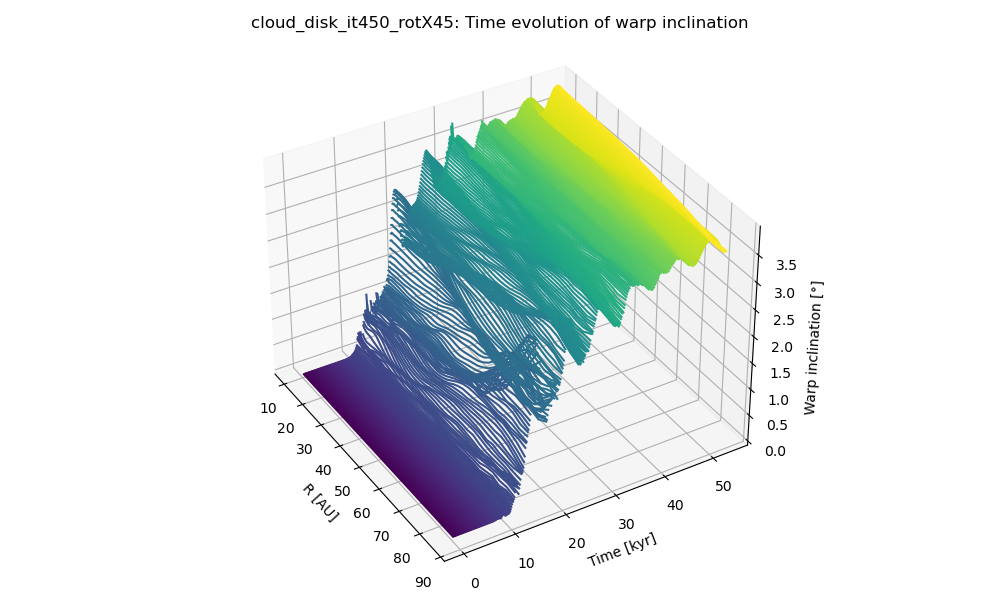
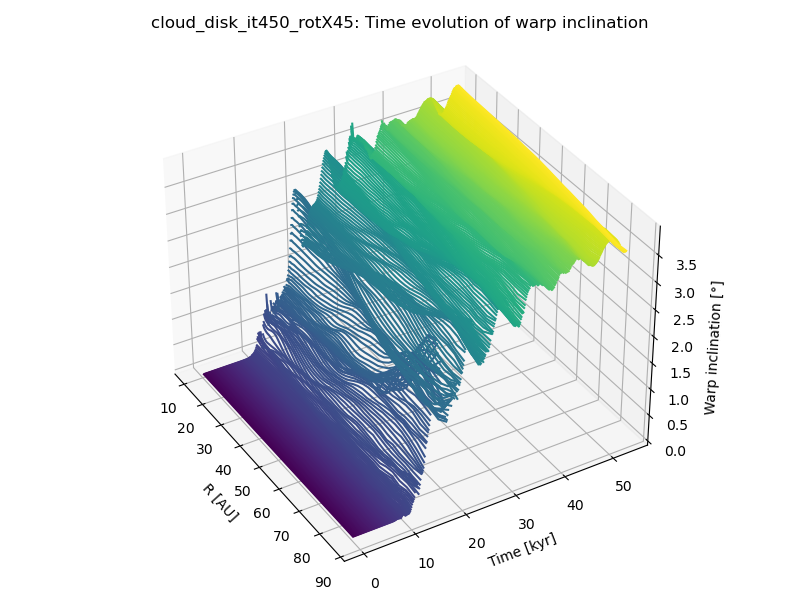
added XY30 & XY90 imgs

diff --git a/analysis.py b/analysis.py
@@ -503,8 +503,8 @@ def calc_total_L(Lx_avg, Ly_avg, Lz_avg):
 
 def main():
 
-    folder = Path("../cloud_disk_it450_rotXY45/")         # Folder with the output files
-    fig_imgs = Path("cloud_disk_it450_rotXY45/imgs/")     # Folder to save images
+    folder = Path("../cloud_disk_it450_rotXY30/")         # Folder with the output files
+    fig_imgs = Path("cloud_disk_it450_rotXY30/imgs/")     # Folder to save images
     it = 450                                                       # FARGO snapshot of interest
     sim_name = str(fig_imgs).split('/')[0]                         # Simulation name (for plot labels)
     sim_params = load_par_file(f"{sim_name}/{sim_name}.par")       # Loading simulation parameters from the .par file
@@ -580,7 +580,7 @@ def main():
 
     # 2D visualizations
     # irad = -1
-    irad = np.where(domains["r"]/au < 2000)[0][-1]
+    irad = np.where(domains["r"]/au < 1000)[0][-1]
     iphi = 0
     itheta = int(len(domains["theta"])/2)
     print(itheta)

diff --git a/time_evol.py b/time_evol.py
@@ -24,8 +24,8 @@ stoky = 3.156e7 * 1e3     # 1 kyr in sec
 def main():
 
 
-    folder = Path("../cloud_disk_it450_rotXY45/")          # Folder with the FARGO output files
-    fig_imgs = Path("cloud_disk_it450_rotXY45/imgs/")      # Folder to save images    
+    folder = Path("../cloud_disk_it450_rotXY30/")          # Folder with the FARGO output files
+    fig_imgs = Path("cloud_disk_it450_rotXY30/imgs/")      # Folder to save images    
     iter_total = 450                                     # FARGO snapshot
 
     first_it = 1
